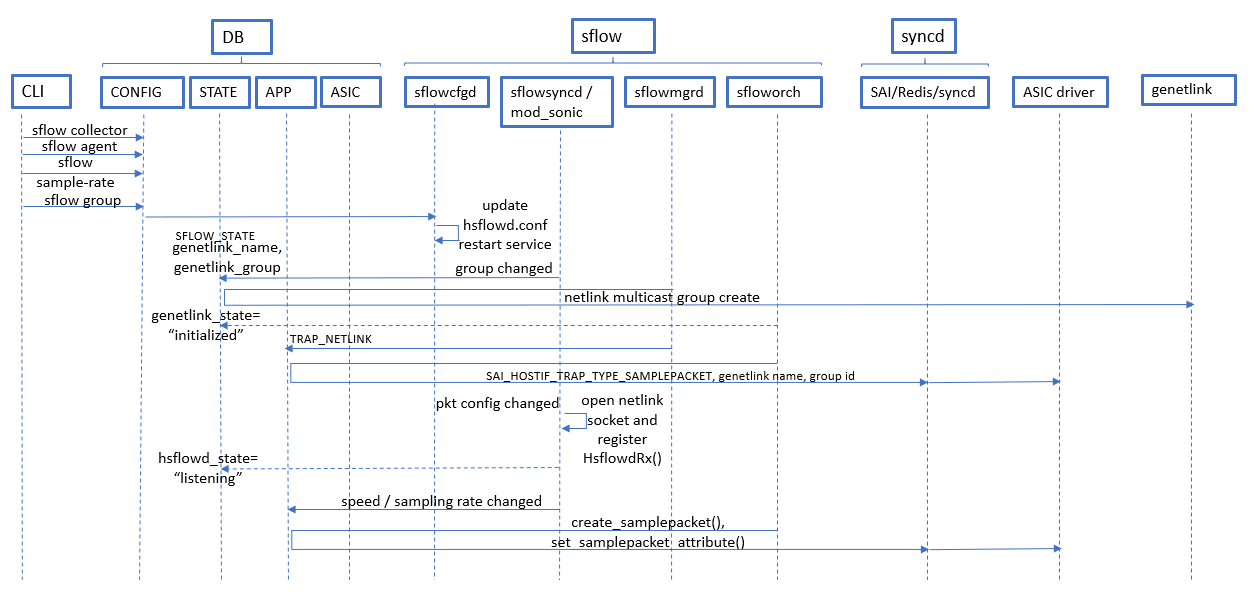
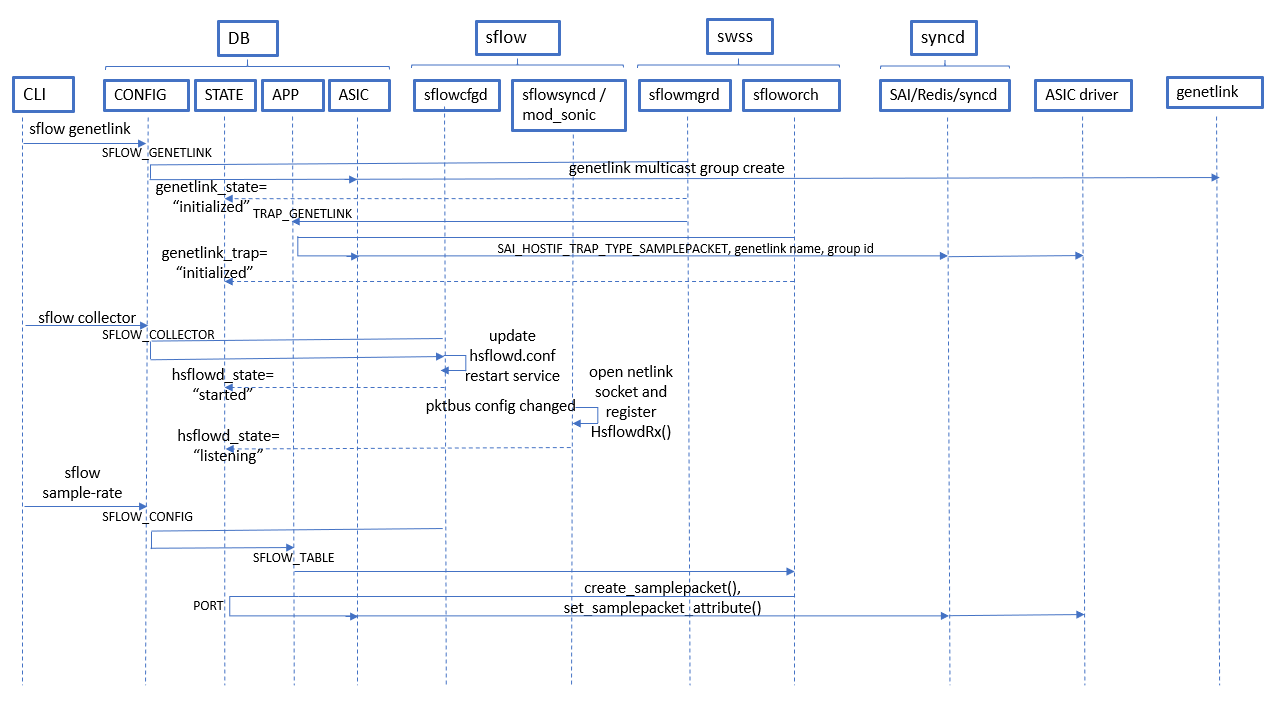
sFlow HLD : address internal comments

diff --git a/doc/sflow/sflow_hld.md b/doc/sflow/sflow_hld.md
@@ -1,11 +1,12 @@
 # sFlow High Level Design
-### Rev 0.1
+### Rev 0.2
 ## Table of Contents
 
 ## 1. Revision 
 Rev | Rev	Date	| Author	| Change Description
 ---------|--------------|-----------|-------------------
 v0.1	 |05/01/2019	|Padmanabhan Narayanan	| Initial version
+v0.2    |05/20/2019  |Padmanabhan Narayanan      | Updated based on internal review comments
 
 ## 2. Scope
 This document describes the high level design of sFlow in SONiC
@@ -64,9 +65,9 @@ sFlow will be implemented in multiple phases:
 ### Not planned to be supported:
 1. sFlow enable/disable option interface level as well as global level.
 2. sFlow configuration at interface level.
-2. Egress sampling support.
-3. sFlow backoff mechanism (Drop the packets beyond configured CPU Queue rate limit).
-4. sFlow over vlan interfaces.
+3. Egress sampling support.
+4. sFlow backoff mechanism (Drop the packets beyond configured CPU Queue rate limit).
+5. sFlow over vlan interfaces.
 
 ## 6. Module Design
 
@@ -78,7 +79,7 @@ The following figure depicts the sFlow container in relation to the overall SONi
 The CLI is enhanced to provide configuring and display of sFlow parameters including sflow collectors, agent IP, sampling rate for interfaces. The CLI configurations currently only interact with the CONFIG_DB.
 
 The newly introduced sflow container consists of:
-* An instantiation of the Inmon's hsflowd daemon (https://github.com/sflow/host-sflow described in https://sflow.net/documentation.php). The hsflowd is launched as a systemctl service. The host-sflow is customised to interact with SONiC subsystems by introducing a host-sflow/src/Linux/mod_sonic.c (descripted later)
+* An instantiation of the InMon's hsflowd daemon (https://github.com/sflow/host-sflow described in https://sflow.net/documentation.php). The hsflowd is launched as a systemctl service. The host-sflow is customised to interact with SONiC subsystems by introducing a host-sflow/src/Linux/mod_sonic.c (descripted later)
 * sflowcfgd : which is a python script that consumes sflow configurations from the CONFIG DB and updates the hsflowd.conf
 
 The swss container is enhanced to add the following components:
@@ -98,12 +99,12 @@ The following figure shows the configuration and control flows for sFlow:
 
 ![alt text](../../images/sflow/sflow_config_and_control.png "SONiC sFlow Configuration and Control")
 
-1. The user configures the sflow collector, agent, sampling related parameters (rate, genetlink group) and these configurations are added to the CONFIG DB.
-2. The sflowcfgd configuration daemon watches the CONFIG DB and is responsible for updating the /etc/sonic/hsflowd.conf which is the configuration file for hsflowd. Based on the nature of changes, the sflowcfgd may restart the hsflowd service. The hsflowd service uses the collector, UDP port and agent IP information to open sockets to reach the sFlow collectors.
-3. The hsflowd's sonic module (mod_sonic) registered callback is invoked for any genetlink group creation/changes (pollBus/HSPEVENT_CONFIG_CHANGED) and the callback updates the STATE DB's SFLOW_STATE table. The sflowmgrd watches changes to the genetlink group and creates a netlink family and multicast group for SONiC sflow use. Once the genetlink group is created, the sflowmgrd initializes the TRAP_NETLINK table in the APP Db that contains the trap type (SAI_HOSTIF_TRAP_TYPE_SAMPLEPACKET) and the genetlink channel and group.
-4. The sfloworch processes the TRAP_NETLINK changes and calls a SAI API that enables the ASIC driver to punt the traps to the specific genetlink channel and group.
-5. Changes to the sampling rate invoke the sonic module (mod_sonic) registered callback for packetBus/HSPEVENT_CONFIG_CHANGED which opens a netlink socket for packet reception and registers an sflow sample handler over the netlink socket (HsflowdRx()).
-5. If the speed or sampling rate changes, the sonic module callback for pollBus/HSPEVENT_INTF_SPEED updates the SFLOW_INTERFACE APP DB table. The sfloworch subagent in the orchagent container processes the change to propagate as corresponding SAI SAMPLEPACKET APIs.
+1. The user configures the sflow collector, agent, sampling related parameters (rate), genetlink parameters (genetlink family and multicast group) and these configurations are added to the CONFIG DB.
+2. The sflowmgrd watches the configDB's SFLOW_GENETLINK table and creates a genetlink family and multicast group. This will eventually be  used by the ASIC SAI driver to punt sFlow samples to hsflowd. Once the genetlink group is created, the sflowmgrd initializes the TRAP_GENETLINK table in the APP Db that contains the trap type (SAI_HOSTIF_TRAP_TYPE_SAMPLEPACKET) and the genetlink channel and group.
+3. The sfloworch processes the TRAP_GENETLINK changes and calls a SAI API that enables the ASIC driver to map the SAI_HOSTIF_TRAP_TYPE_SAMPLEPACKET trap to the specific genetlink channel and group.
+4. The sflowcfgd configuration daemon watches the CONFIG DB's SFLOW_COLLECTOR table and is responsible for updating the /etc/sonic/hsflowd.conf which is the configuration file for hsflowd. Based on the nature of changes, the sflowcfgd may restart the hsflowd service. The hsflowd service uses the collector, UDP port and agent IP information to open sockets to reach the sFlow collectors.
+5. When hsflowd starts, the sonic module (mod_sonic) registered callback for packetBus/HSPEVENT_CONFIG_CHANGED opens a netlink socket for packet reception and registers an sflow sample handler over the netlink socket (HsflowdRx()).
+6. Sampling rate changes are updated in the SFLOW_CONFIG table. The sflowcfgd updates sampling rate changes into SFLOW_TABLE in the App DB. The sfloworch subagent in the orchagent container processes the change to propagate as corresponding SAI SAMPLEPACKET APIs. The sfloworch subagent will query the PORT table in STATE DB to determine the link speeds in order to map the user configured sampling rate (expressed as a percentage) to the port speed specific rate (expressed as 1-in-N samples).
 
 
 ### 6.3 **sFlow sample path**
@@ -126,41 +127,46 @@ The following figure shows the sFlow sample packet path flow:
   Also, the **config** and **show** commands would be extended to include the sflow option.
 
 #### Config commands
-* sflow collector <name> <ip-address | ipv6-address> [port <number>]
+* sflow collector \<name> <ipv4-address | ipv6-address> [agent-addr {ipv4-address | ipv6-address}] [port \<number>] [max-datagram-size \<size>]
 
   Where:
   * name is the unique name of the sFlow collector
-  * ip-address : IP address of the collector in dotted decimal format for IPv4
-  * ipv6-address :  x:x:x:x::x format for IPv6 ( where :: notation specifies successive hexadecimal fields of zeros)
+  * ipv4-address : IP address of the collector in dotted decimal format for IPv4
+  * ipv6-address :  x:x:x:x::x format for IPv6 address of the collector (where :: notation specifies successive hexadecimal fields of zeros)
+  * agent-addr : 
+       * ipv4-address : IP address of the agent in dotted decimal format for IPv4
+       * ipv6-address :  x:x:x:x::x format for IPv6 address of the agent (where :: notation specifies successive hexadecimal fields of zeros)
   * port : specifies the UDP port of the collector (the range is from 0 to 65535. The default is 6343.)
-  
- * no sflow collector <name>
+  * max-datagram-size : in bytes (from 400 to 1500 : defaults to 1400)
+
+  Note:
+  * A maximum of 2 collectors is allowed.
+  * Only a single agent IP is allowed across collectors
+  * Only a single value for max-datagram-size is allowed across collectors
+
+ * no sflow collector \<name>
 
     Delete the sflow collector with the given name
-   
-* sflow agent <ip-address | ipv6-address>
-
-  Where:
-  * ip-address : IP address of the agent in dotted decimal format for IPv4
-  * ipv6-address :  x:x:x:x::x format for IPv6 ( where :: notation specifies successive hexadecimal fields of zeros)
-
-
+ 
 * sflow sample-rate value
   
   Where
-  * value is a percentage of the bandwidth of the port (ifSpeed expressed in bits per second) that should be sampled.
-    Default sampling rate =  ifSpeed / 1000000, where ifSpeed is expressed in bits per second and that gives:
-    * sampling.1G = 1 in 1,000
-    * sampling.10G = 1 in 10,000
-    * sampling.40G = 1 in 40,000
-    * sampling.100G = 1 in 100,000
-	
-	The value of 0 is used to disable sFlow.
+  * value is a percentage of the bandwidth of the port expressed in bits per second. The value of 0 is used to disable sFlow.
+  * A value of .0001 would yield the following sampling rates:
 
-* sflow [max-datagram-size <size>]
+       sampling.1G = 1 in 1,000
 
-  Where:
-  * max-datagram-size : in bytes (from 400 to 1500 : defaults to 1400)
+       sampling.10G = 1 in 10,000
+       
+       sampling.40G = 1 in 40,000
+       
+       sampling.100G = 1 in 100,000
+
+* sflow genetlink \<name> \<multicast-group-id>
+
+  Where
+  * name is the Generic Netlink family name (defaults to psample)
+  * multicast-group-id is the GENETLINK multicast group ID/port that will be used by hsflowd to receive the sFlow samples (default 100)
 
 #### Show commands
 * show sflow 
@@ -172,13 +178,22 @@ The following figure shows the sFlow sample packet path flow:
 
 #### ConfigDB Table & Schema
 
-A new SFLOW_COLLECTOR ConfigDB table entry would be added. 
+A new SFLOW_GENETLINK ConfigDB table entry would be added:
+```
+; Defines schema for SFLOW_GENETLINK table which has the genetlink family and multicast group IDs to be used as Host Interfaces
+key                                   = SFLOW_GENETLINK:genetlink_name
+; field                               = value
+genetlink_name                        = 1*16VCHAR                        ; name of the genetlink family
+genetlink_group                       = 1*4DIGIT                         ; genetlink multicast group id
+```
 
+A new SFLOW_COLLECTOR ConfigDB table entry would be added. 
 ```
 SFLOW_COLLECTOR|{{collector_name}}
     "collector_ip": {{ip_address}}
+    "agent_addr": {{ip_address}}
     "collector_port": {{ uint32 }} (OPTIONAL)
-    "datagram_size": {{ uint32 }} (OPTIONAL)
+    "max_datagram_size": {{ uint32 }} (OPTIONAL)
 
 ; Defines schema for sFlow collector configuration attributes
 key                                   = SFLOW_COLLECTOR:collector_name   ; sFlow collector configuration
@@ -186,51 +201,49 @@ key                                   = SFLOW_COLLECTOR:collector_name   ; sFlow
 collector_ip                          = IPv4address / IPv6address        ; Ipv4 or IpV6 collector address
 agent_ip                              = IPv4address / IPv6address        ; Ipv4 or IpV6 agent address
 collector_port                        = 1*5DIGIT                         ; destination L4 port : a number between 0 and 65535
-datagram_size                         = 1*4DIGIT                         ; MTU of the sflow datagram
+max_datagram_size                     = 1*4DIGIT                         ; MTU of the sflow datagram
 
 ;value annotations
 collector_name                        = 1*16VCHAR
 ```
 
-A new SFLOW_AGENT ConfigDB table entry would be added. 
+A new SFLOW_CONFIG table would be added.
 ```
-SFLOW_AGENT
-    "agent_ip": {{ip_address}}
-
-; Defines schema for sFlow collector configuration attributes
+; Defines schema for SFLOW_CONFIG table which holds global configurations
+key                                   = SFLOW_CONFIG:Config
 ; field                               = value
-agent_ip                              = IPv4address / IPv6address        ; Ipv4 or IpV6 agent address
+sampling_rate       = 1*5DIGIT      ; 1 / (sflow sampling rate as a percentage of bandwidth)
 ```
+
 #### AppDB & Schema
 
-A new TRAP_NETLINK table entry would be added:
+A new TRAP_GENETLINK table entry would be added:
 
 ```
-; Defines schema for TRAP_NETLINK table which maps trap types that need to be punted to a genetlink channel
-key                                   = TRAP_NETLINK:trap_id             ; TRAP ID
+; Defines schema for TRAP_GENETLINK table which maps trap types that need to be punted to a genetlink channel
+key                                   = TRAP_GENETLINK:trap_id             ; TRAP ID
 ; field                               = value
-genetlink_name                        = 1*16VCHAR                        ; name of the genetlink family
-genetlink_group                       = 1*4DIGIT                         ; genetlink multicast group id
+genetlink_name                        = 1*16VCHAR                          ; name of the genetlink family
+genetlink_group                       = 1*4DIGIT                           ; genetlink multicast group id
 ```
 
-A new field is added to the AppDB's PORT_TABLE:
+A new SFLOW_TABLE is added to the AppDB:
+
 ```
-;Defines layer 2 ports
-;In SONiC, Data is loaded from configuration file by portsyncd
-key                 = PORT_TABLE:ifname    ; ifname must be unique across PORT,INTF,VLAN,LAG TABLES
-...
-sampling_rate       = 1*3DIGIT      ; sflow sampling rate as a percentage of bandwidth
-...
+; Defines schema for SFLOW_TABLE table which contains parameters that need to be set for sFlow
+key                 = SFLOW_TABLE:sflow
+; field             = value
+sampling_rate       = 1*5DIGIT           ; 1 / (sflow sampling rate as a percentage of bandwidth)
 ```
+
 #### StateDB & Schema
 
 The following SFLOW_STATE table is added to the StateDB:
 ```
 ; Defines schema for SFLOW_STATE table
 ; field                               = value
-genetlink_name                        = 1*16VCHAR                        ; name of the genetlink family
-genetlink_group                       = 1*4DIGIT                         ; genetlink multicast group id
 genetlink_state                       = "" / "initialized"               ; initialized : genetlink group created successfully
+genetlink_trap                        = "" / "initialized"               ; initialized : trap has been mapped to genetlink group successfully
 hsflowd_state                         = "" / "started" / "stopped" / "listening" ; started : hsflowd daemon has been started
                                                                                  ; stopped : hsflowd daemon has been stopped
                                                                                  ; listening : hsflowd is listening for samples
@@ -240,10 +253,11 @@ hsflowd_state                         = "" / "started" / "stopped" / "listening"
 
 hsflowd (https://github.com/sflow/host-sflow) is the most popular open source implementation of the sFlow agent and provides support for DNS-SD (http://www.dns-sd.org/) and can be dockerised. hsflowd supports sFlow version 5 (https://sflow.org/sflow_version_5.txt which supersedes RFC 3176). hsflowd will run as a systemd service within the sflow docker.
 
-CLI configurations will be saved to the ConfigDB. When hsflowd service is started, the service startup script will derive the /etc/sonic/hsflowd.conf from the ConfigDB. Config changes will necessitate restart of hsflowd. hsflowd provides the necessary statistics for the "show" commands. CLI "config" commands will retrieve the entries in the config DB.
+CLI configurations will be saved to the ConfigDB. Once the genetlink channel has been initialised and the sFlow traps mapped to the genetlink group, the hsflowd service is started. The service startup script will derive the /etc/sonic/hsflowd.conf from the ConfigDB. Config changes will necessitate restart of hsflowd. hsflowd provides the necessary statistics for the "show" commands. CLI "config" commands will retrieve the entries in the config DB.
 
 #### sflowcfgd
 
+the sflowcfgd daemon listens to SFLOW_COLLECTOR to construct the hsflowd.conf and start the hsflowd service.
 The mapping between the SONiC sflow CLI parameters and the host-sflow is given below:
 
 SONIC CLI parameter| hsflowd.conf equivalent
@@ -258,15 +272,11 @@ The master list of supported host-sflow tokens are found in host-sflow/src/Linux
 
 Example SONiC CLI configuration:
 
-&#35; sflow collector sflow-a 10.100.12.13 
+&#35; sflow collector sflow-a 10.100.12.13 agent-addr 10.0.0.10 max-datagramsize 1500
 
-&#35; sflow collector sflow-b 10.144.1.2
+&#35; sflow collector sflow-b 10.144.1.2 pot 6344
 
-&#35; sflow agent 10.0.0.10
-
-&#35; sflow sample-rate 1
-
-&#35; sflow max-datagramsize 1500
+&#35; sflow sample-rate .0001
 
 ```
 sflow {
@@ -277,6 +287,9 @@ sflow {
   datagramBytes = 1500
 }
 ```
+
+sflowcfgd also listens to SFLOW_CONFIG to propogate the sampling rate changes to App DB SFLOW_TABLE.
+
 #### hsflowd service
 
 hsflowd provides an module adaptation layer for interfacing with the NOS. In the host-sflow repo, a src/Linux/mod_sonic.c adaption layer will be provided for hsflowd APIs to SONiC that deal with hsflowd initialization, configuration changes, packet sample consumption etc. More specifically, SONiC will register and provide callbacks for the following HSP events:
@@ -286,7 +299,7 @@ hsflowd bus/events|SONiC callback actions
   pollBus/HSPEVENT_INTF_READ | select all switchports for sampling by default
   pollBus/HSPEVENT_INTF_SPEED | set sampling rate
   pollBus/HSPEVENT_UPDATE_NIO | poll interface state from STATE_DB:PORT_TABLE
-  pollBus/HSPEVENT_CONFIG_CHANGED)| 1. Update SFLOW_STATE table with genetlink information <br> 2. Change sampling rate (if rate/ port speed changed)
+  pollBus/HSPEVENT_CONFIG_CHANGED)| Change sampling rate (/ port speed changed)
   packetBus/HSPEVENT_CONFIG_CHANGED | open netlink socket and register HsflowdRx()
   
 Refer to host-sflow/src/Linux/hsflowd.h for a list of events.
@@ -295,17 +308,17 @@ Refer to host-sflow/src/Linux/hsflowd.h for a list of events.
 
 ### sflowmgrd
 
-The sflowmgrd reads the SFLOW_STATE table to create program genetlink groups that will be used by the SAI driver to lift packets to the hsflowd. Once the genetlink group is created, updates the TRAP_NETLINK table for sFlowOrch to process. A multicast group is typically created which enables multiple applications (e.g. even a local netlink sniffer tools) to additionally inspect the samples that are lifted to hsflowd.
+The sflowmgrd reads the SFLOW_GENETLINK table to create program genetlink groups that will be used by the SAI driver to lift packets to the hsflowd. Once the genetlink group is created, updates the TRAP_GENETLINK table for sFlowOrch to process. A multicast group is typically created which enables multiple applications (e.g. even a local netlink sniffer tools) to additionally inspect the samples that are lifted to hsflowd.
 
 ### sFlowOrch
 
-An sFlowOrch is introduced in the Orchagent to handle configuration requests. The sFlowOrch essentially facilitates the creation/deletion of samplepacket sessions as well as get/set of session specific attributes.
+An sFlowOrch is introduced in the Orchagent to handle configuration requests. The sFlowOrch essentially facilitates the creation/deletion of samplepacket sessions as well as get/set of session specific attributes. sFlowOrch tracks the TRAP_GENETLINK table to set the genetlink host interface that is to be used by the SAI driver to deliver the samples.
+
+Also, it monitors the SFLOW_TABLE and PORT state to determine sampling rate / speed changes to derive and set the sampling rate for all the interfaces. It uses the SAI samplepacket APIs to set each ports's sampling rate.
 
 ### 6.8 **SAI changes**
 
 Creating sFlow sessions and setting attributes (e.g. sampling rate) is described in SAI proposal : https://github.com/opencomputeproject/SAI/tree/master/doc/Samplepacket 
-
-The set_hostif_trap_group_attribute() can be used to assign the netlink multicast group name and id to a specific trap.
 
 As per the sFlow specification, each packet sample should have certain minimal meta data for processing by the sFlow analyser. The psample infrastructure (http://man7.org/linux/man-pages/man8/tc-sample.8.html) already describes the desired metadata fields (which the SAI driver needs to add to each sample):
 
@@ -338,6 +351,101 @@ SAMPLED PACKETS METADATA FIELDS
 ```
 
 The SAI driver may provide the interface OIDs corresponding to the IIFINDEX AND OIFINDEX. The hsflowd mod_sonic HsflowdRx() may have to map these correspondingly to the netdev ifindex.
+
+Rather than define a new framework for describing the metadata for sFlow use, SAI would re-use the framework that the psample driver (https://github.com/torvalds/linux/blob/master/net/psample/psample.c) currently uses. The psample kernel driver is based on the Generic Netlink subsystem that is described in https://wiki.linuxfoundation.org/networking/generic_netlink_howto. SAI ASIC drivers supporting sFlow may choose to use the psample.ko driver as-is or may choose to implement the generic netlink interface (that complies with the above listed metadata) using a private generic netlink family.
+
+#### SAI Host Interface based on Generic Netlink
+
+1. Application installs psample.ko (genl family = "psample") or it's own psample metadata compliant kernel driver (say, genl family ="asic_genl")
+
+2. Application creates a multicast group in the generic netlink family for use by SAI driver to lift samples on the chosen genetlink family’s multicast port.
+
+3. Use sai_create_hostif_fn() to let SAI driver know of SAI_HOST_INTERFACE_TYPE_GENETLINK interface associated with generic netlink family (SAI_HOST_INTERFACE_ATTR_NAME) and mulsticast group id (SAI_HOSTIF_ATTR_GENETLINK_PORT_ID)
+
+4. Use sai_create_hostif_table_entry_fn() to map SAI_HOSTIF_TRAP_TYPE_SAMPLEPACKET to sai_host_if
+
+#### Changes in SAI to support the GENETLINK host interface
+
+The changes in SAI to support the GENETLINK host interface is highlighted below:
+
+```
+ /** Generic netlink */
+    SAI_HOSTIF_TYPE_GENETLINK
+
+ /**
+     * @brief Name [char[SAI_HOSTIF_NAME_SIZE]]
+     *
+     * The maximum number of characters for the name is SAI_HOSTIF_NAME_SIZE - 1 since
+     * it needs the terminating null byte ('\0') at the end.
+     *
+     * In case of GENETLINK, name refers to the genl family name
+     *
+     * @type char
+     * @flags MANDATORY_ON_CREATE | CREATE_ONLY
+     * @condition SAI_HOSTIF_ATTR_TYPE == SAI_HOSTIF_TYPE_NETDEV or SAI_HOSTIF_ATTR_TYPE == SAI_HOSTIF_TYPE_GENETLINK
+     */
+    SAI_HOSTIF_ATTR_NAME,
+
+ /**
+     * @brief Set the Generic netlink (multicast) port id on which the packets/buffers
+     * are received on this host interface
+     *
+     * @type sai_uint32_t
+     * @flags CREATE_AND_SET
+     * @default 0
+     */
+    SAI_HOSTIF_ATTR_GENETLINK_PORT_ID,
+
+ /** Receive packets via Linux generic netlink interface */
+    SAI_HOSTIF_TABLE_ENTRY_CHANNEL_TYPE_GENETLINK
+```
+#### Creating a GENETLINK Host Interface
+
+Below is an example code snip that shows how a GENETLINK based host inerface is created. It is assumed that the application has already installed the psample.ko and created multicast group 100.
+
+```
+// Create a Host Interface based on generic netlink
+sai_object_id_t host_if_id;
+sai_attribute_t sai_host_if_attr[3];
+ 
+sai_host_if_attr[0].id=SAI_HOST_INTERFACE_ATTR_TYPE;
+sai_host_if_attr[0].value=SAI_HOST_INTERFACE_TYPE_GENETLINK;
+ 
+sai_host_if_attr[1].id= SAI_HOST_INTERFACE_ATTR_NAME;
+sai_host_if_attr[1].value=”psample”;
+ 
+sai_host_if_attr[2].id= SAI_HOSTIF_ATTR_GENETLINK_PORT_ID;
+sai_host_if_attr[2].value=100;
+
+sai_create_host_interface_fn(&host_if_id, 9, sai_host_if_attr);
+```
+
+### Mapping a sFlow (SAI_HOSTIF_TRAP_TYPE_SAMPLEPACKET) trap to a GENETLINK host interface multicast group id
+
+Below is the code snip that outlines how an sFlow trap is mapped to the GENETLINK host interface created in the previous section.
+
+```
+// Configure the host table to receive traps on the generic netlink socket
+
+sai_object_id_t host_table_entry;
+sai_attribute_t sai_host_table_attr[9];
+ 
+sai_host_table_attr[0].id=SAI_HOSTIF_TABLE_ENTRY_ATTR_TYPE;
+sai_host_table_attr[0].value= SAI_HOST_INTERFACE_TABLE_ENTRY_TYPE_TRAP_ID;
+ 
+sai_host_table_attr[1].id= SAI_HOSTIF_TABLE_ENTRY_ATTR_TRAP_ID;
+sai_host_table_attr[1].value=sflow_trap_id; // Object referencing SAMPLEPACKET trap
+
+sai_host_table_attr[2].id= SAI_HOSTIF_TABLE_ENTRY_ATTR_CHANNEL;
+sai_host_table_attr[2].value=  SAI_HOSTIF_TABLE_ENTRY_CHANNEL_TYPE_GENETLINK; 
+
+sai_host_table_attr[3].id= SAI_HOSTIF_TABLE_ENTRY_ATTR_HOST_IF;
+sai_host_table_attr[3].value=host_if_id; // host interface of type file descriptor for GENETLINK
+
+sai_create_hostif_table_entry_fn(&host_table_entry, 4, sai_host_table_attr);
+```
+
+It is assumed that the trap group and the trap itself have been defined using sai_create_hostif_trap_group_fn() and sai_create_hostif_trap_fn().
 
 ## 7 **Build**
 
